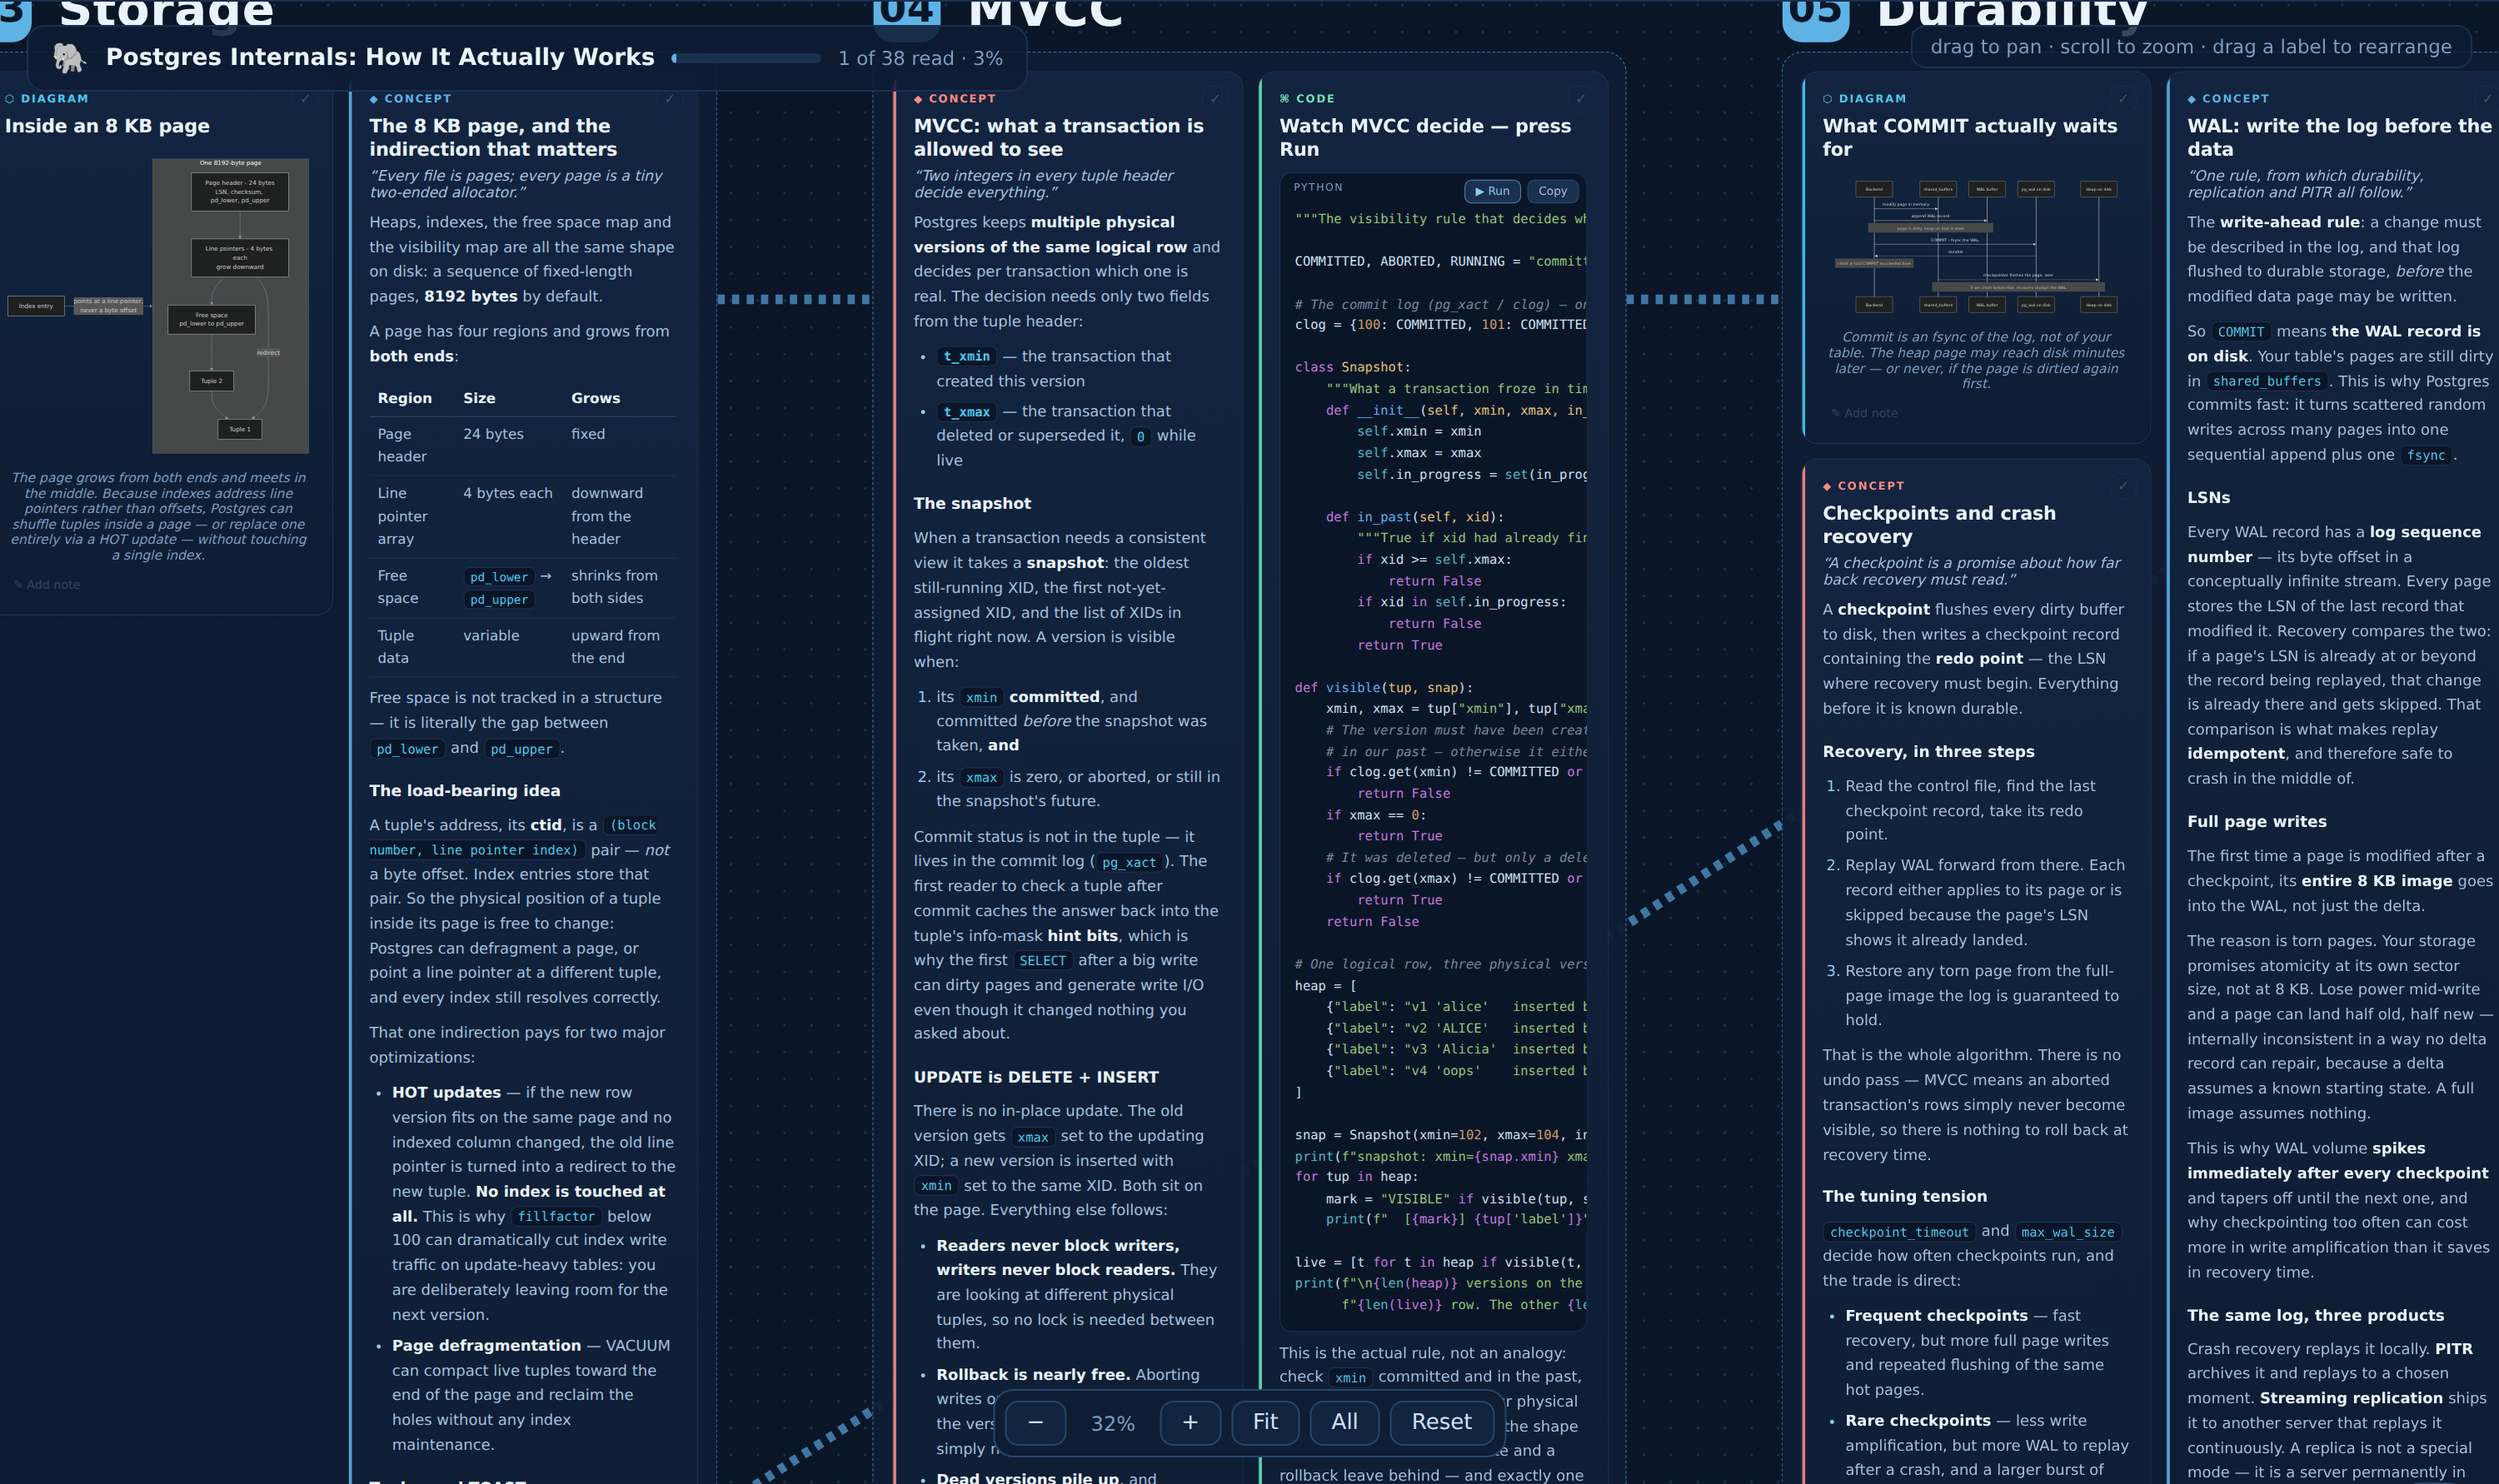
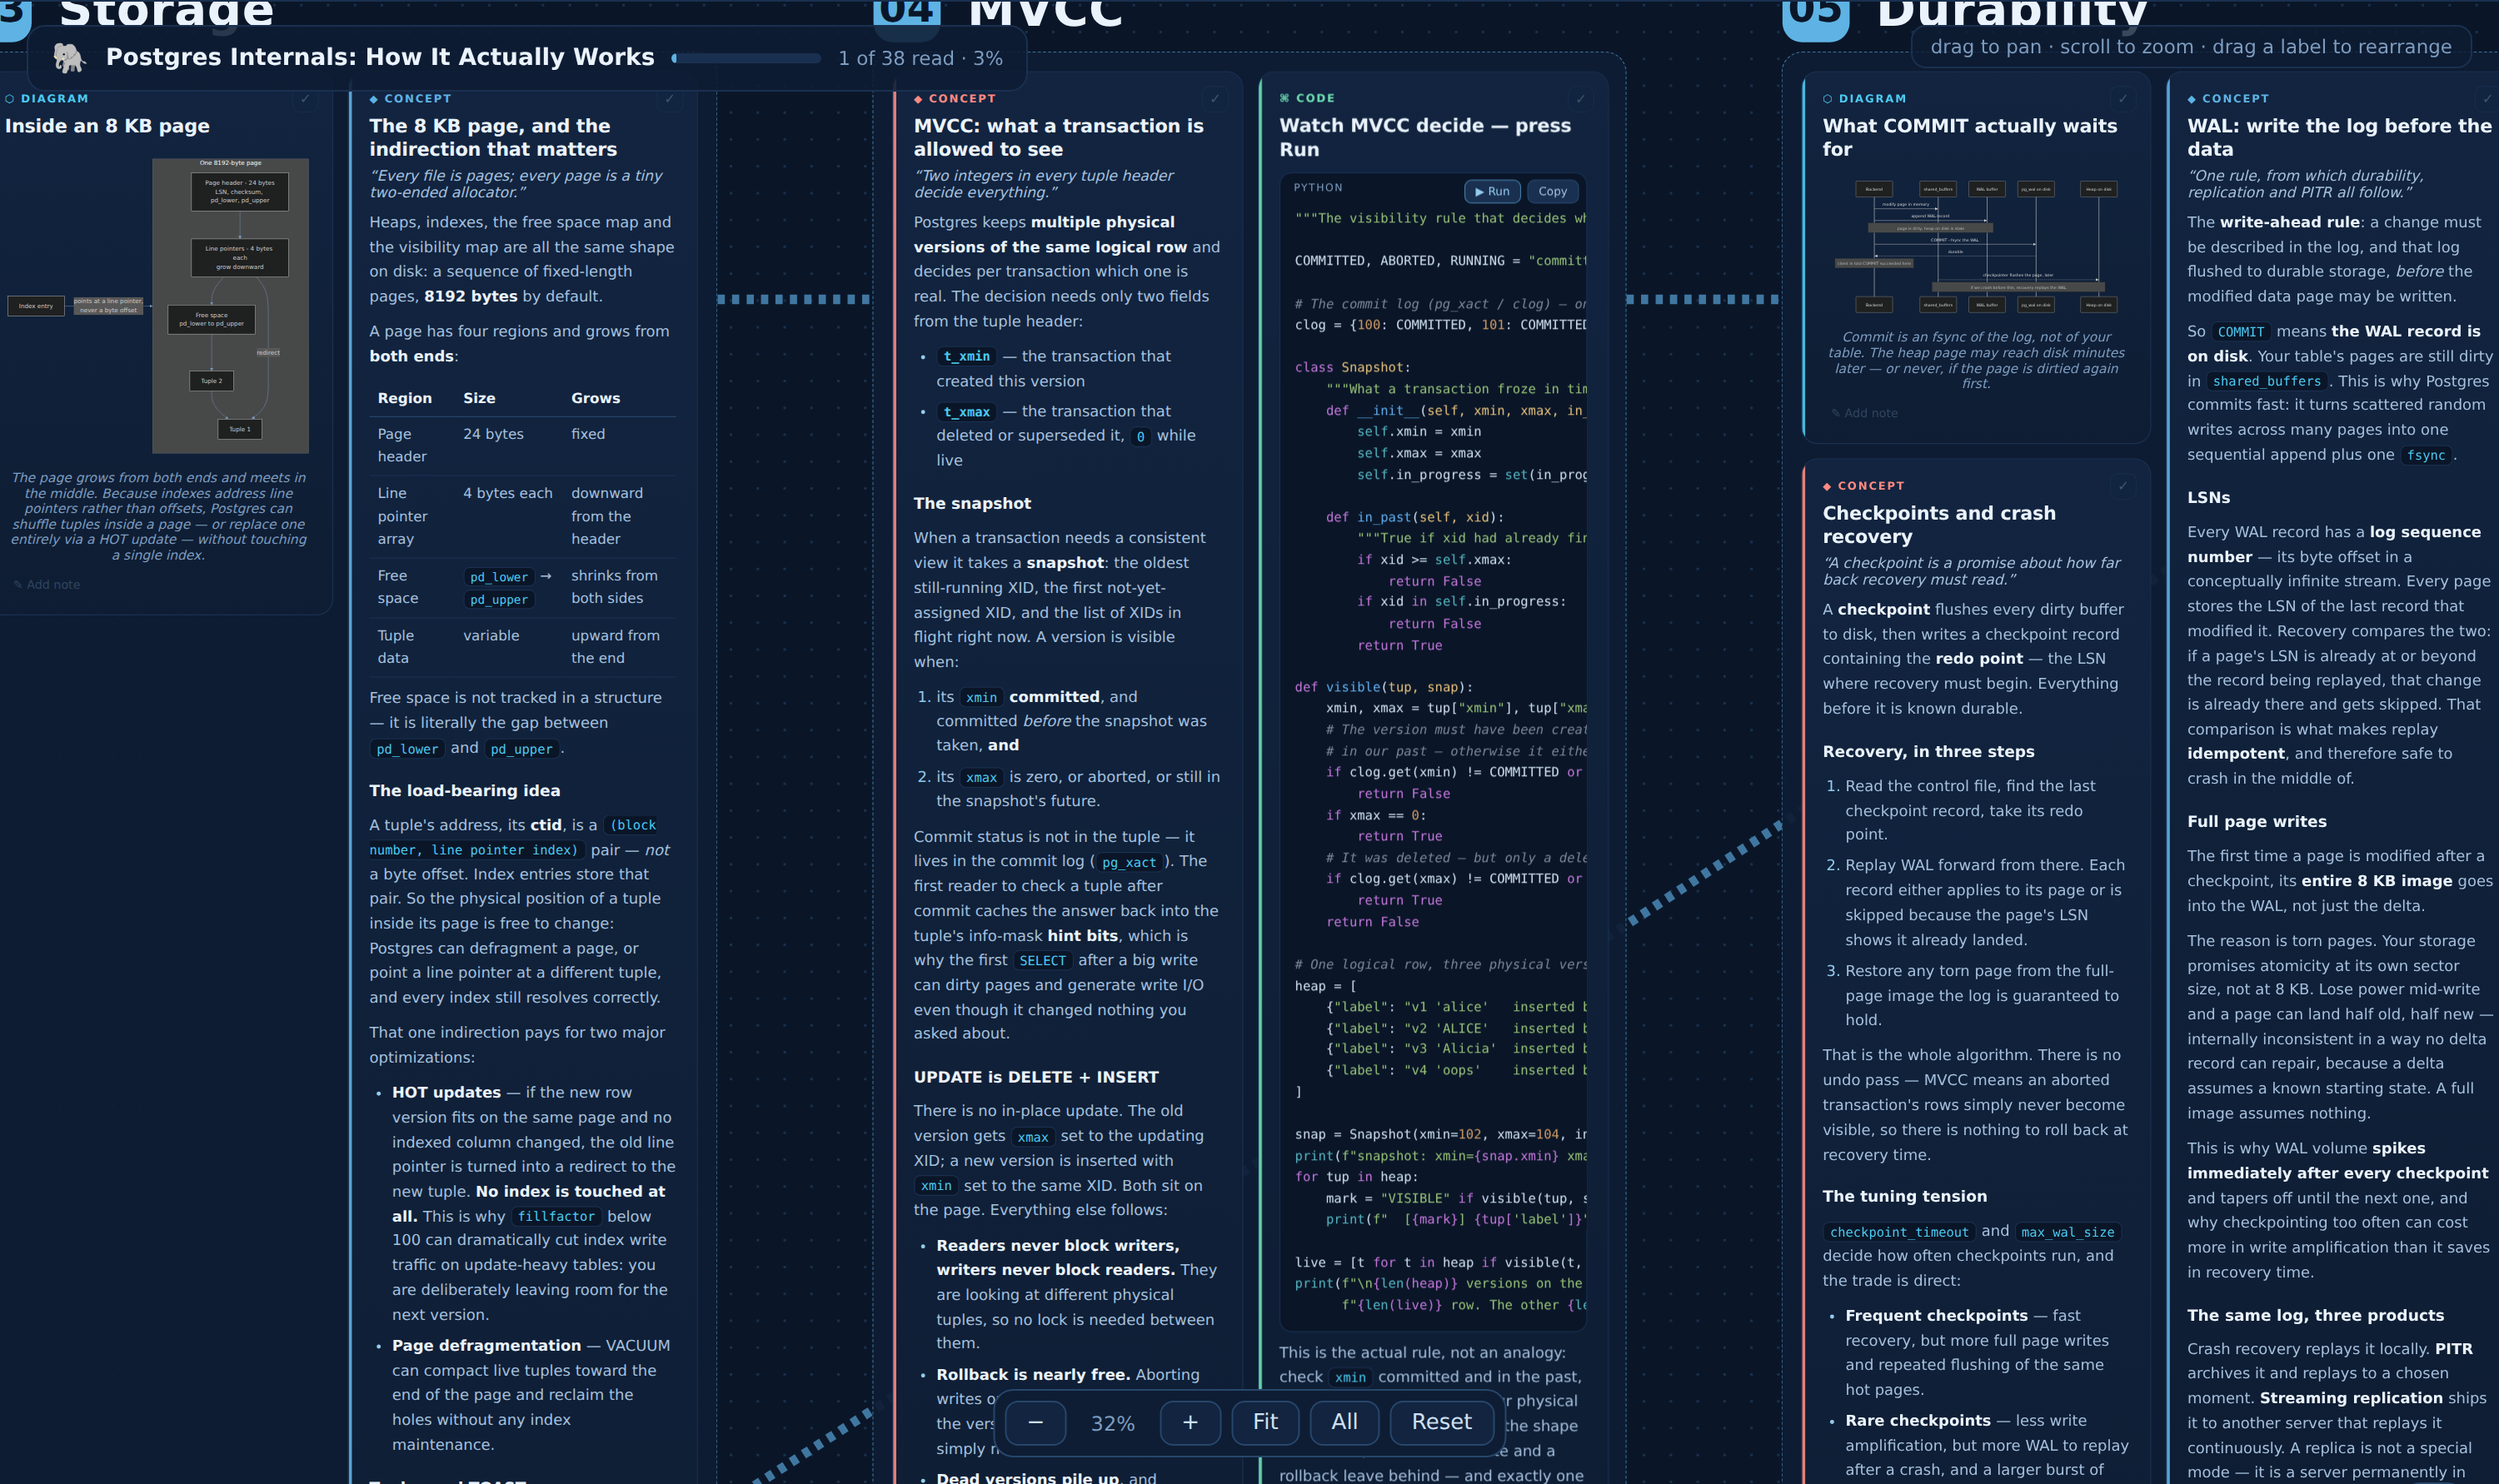
Review pass: fix six findings in the appearance code, plus a PUT write race
A fresh-eyes review of the latest changes confirmed six issues, all fixed:

- The base-mode swatches share the wp-swatch class, so choosing any
  wallpaper stripped the White/Black highlight — applyWallpaper() now
  scopes its loop to [data-wp] swatches.
- Switching base triggered a full re-render that snapped the reader back
  to the top of the page; it now saves and restores scroll, matching the
  hot-reload path.
- An unrecognized stored appearance value rendered as auto but left no
  swatch highlighted; storedAppearance() normalizes unknown values.
- LIGHT_PRESETS hand-duplicated the dark/light classification already in
  THEMES — one source of truth now (THEMES[preset].dark === false).
- A data-plain attribute nothing reads, and a doubled mode === "auto"
  branch, both removed.

Plus one the review's scope missed: serve.py is a threading server, but
every PUT shared one tmp filename — two concurrent saves (a note and a
canvas drag, say) could interleave into corrupt JSON. Each write now uses
a unique dotted tmp name, excluded from the boards glob, cleaned up on
failure. Verified with 12 parallel PUTs: no errors, valid JSON after, no
leftover tmp files.

Also audited every tracked file: all 33 are referenced and needed —
nothing to remove. Wallpaper suite extended with regressions for the
highlight collision and scroll preservation (24 checks); whiteboard and
library suites re-run green.

Claude-Session: https://claude.ai/code/session_01CMLozU8DZ5EUDgGDcPKhJ6

diff --git a/app/index.html b/app/index.html
@@ -964,9 +964,12 @@ function el(tag, attrs = {}, children = []) {
 
 /* ── Theme application ─────────────────────────────────────────────── */
 
-const LIGHT_PRESETS = new Set(["paper", "sepia", "arctic"]);
-
 function appearanceStoreKey() { return `superlearn.appearance.${state.board?.id ?? "global"}`; }
+
+function storedAppearance() {
+  const mode = localStorage.getItem(appearanceStoreKey());
+  return ["white", "black"].includes(mode) ? mode : "auto";
+}
 
 /* The viewer can force a white or black base. Painting only the body would
    strand light text on a white page, so the mode moves the whole ink scale:
@@ -976,12 +979,13 @@ function appearanceStoreKey() { return `superlearn.appearance.${state.board?.id 
    preset, so nothing goes unreadable. */
 function applyTheme(theme) {
   let preset = THEMES[theme?.preset] ? theme.preset : "midnight";
-  const mode = localStorage.getItem(appearanceStoreKey()) ?? "auto";
+  const mode = storedAppearance();
   const root = document.documentElement.style;
   root.removeProperty("--ink-950");
   root.removeProperty("--ink-900");
-  if (mode === "white" && !LIGHT_PRESETS.has(preset)) preset = "arctic";
-  if (mode === "black" && LIGHT_PRESETS.has(preset)) preset = "midnight";
+  const isLight = THEMES[preset].dark === false;
+  if (mode === "white" && !isLight) preset = "arctic";
+  if (mode === "black" && isLight) preset = "midnight";
   document.documentElement.dataset.theme = preset;
   if (mode === "white") {
     root.setProperty("--ink-950", "#ffffff");
@@ -1003,8 +1007,10 @@ function applyTheme(theme) {
 
 function setAppearance(mode) {
   localStorage.setItem(appearanceStoreKey(), mode);
+  const scrollY = window.scrollY;
   applyTheme(state.board?.theme);
   render();   // diagrams re-render in the new palette
+  window.scrollTo({ top: scrollY });
 }
 
 function currentThemeIsDark() {
@@ -3003,7 +3009,7 @@ function applyWallpaper(key) {
     root.setProperty("--bg-repeat", wp.vars.repeat ?? "repeat");
     root.setProperty("--bg-attach", wp.vars.attach ?? "scroll");
   }
-  for (const b of document.querySelectorAll(".wp-swatch")) {
+  for (const b of document.querySelectorAll(".wp-swatch[data-wp]")) {
     b.classList.toggle("on", b.dataset.wp === wp.key);
   }
 }
@@ -3042,16 +3048,15 @@ function wireWallpaper() {
     ["black", "Black", "#000000", "#d5d9e2"],
   ]) {
     const sw = el("button", { class: "wp-swatch ap-swatch", "data-ap": mode, title: label });
-    if (mode === "auto") sw.append(el("span", { class: "wmark" }, ["✦"]));
-    else {
+    if (mode === "auto") {
+      sw.append(el("span", { class: "wmark" }, ["✦"]), el("span", { class: "wlabel" }, [label]));
+    } else {
       sw.style.backgroundColor = bg;
       const lab = el("span", { class: "wlabel" }, [label]);
       lab.style.background = "transparent";
       lab.style.color = fg;
       sw.append(lab);
-      sw.dataset.plain = "1";
     }
-    if (mode === "auto") sw.append(el("span", { class: "wlabel" }, [label]));
     sw.addEventListener("click", () => setAppearance(mode));
     baseGrid.append(sw);
   }

diff --git a/scripts/serve.py b/scripts/serve.py
@@ -28,6 +28,7 @@ import os
 import re
 import socketserver
 import sys
+import uuid
 import urllib.parse
 from http.server import SimpleHTTPRequestHandler
 from pathlib import Path
@@ -273,10 +274,18 @@ class Handler(SimpleHTTPRequestHandler):
         board["id"] = board_id
         self.boards_dir.mkdir(parents=True, exist_ok=True)
         target = self.boards_dir / f"{board_id}.json"
-        tmp = target.with_suffix(".json.tmp")
-        with open(tmp, "w", encoding="utf-8") as f:
-            json.dump(board, f, indent=2, ensure_ascii=False)
-        os.replace(tmp, target)
+        # Unique per write: this server is threaded, and two concurrent saves
+        # sharing one tmp path could interleave into corrupt JSON. The dotted
+        # name also keeps it out of load_boards' *.json glob.
+        tmp = self.boards_dir / f".{board_id}.{uuid.uuid4().hex}.tmp"
+        try:
+            with open(tmp, "w", encoding="utf-8") as f:
+                json.dump(board, f, indent=2, ensure_ascii=False)
+            os.replace(tmp, target)
+        except OSError:
+            tmp.unlink(missing_ok=True)
+            self.send_json({"error": "could not write the board"}, 500)
+            return
         self.send_json({"ok": True})
 
     def log_message(self, fmt, *args):  # quiet: only log API errors
